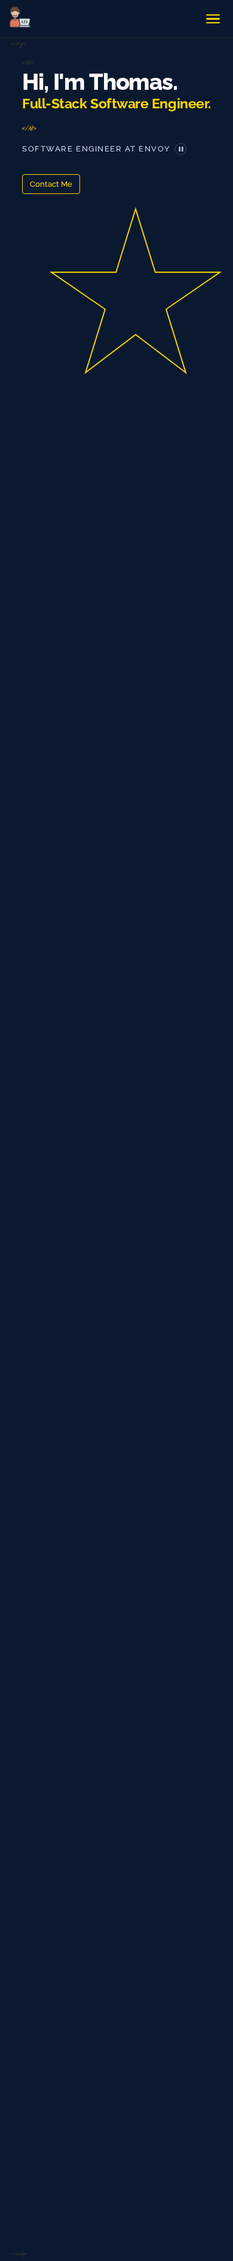
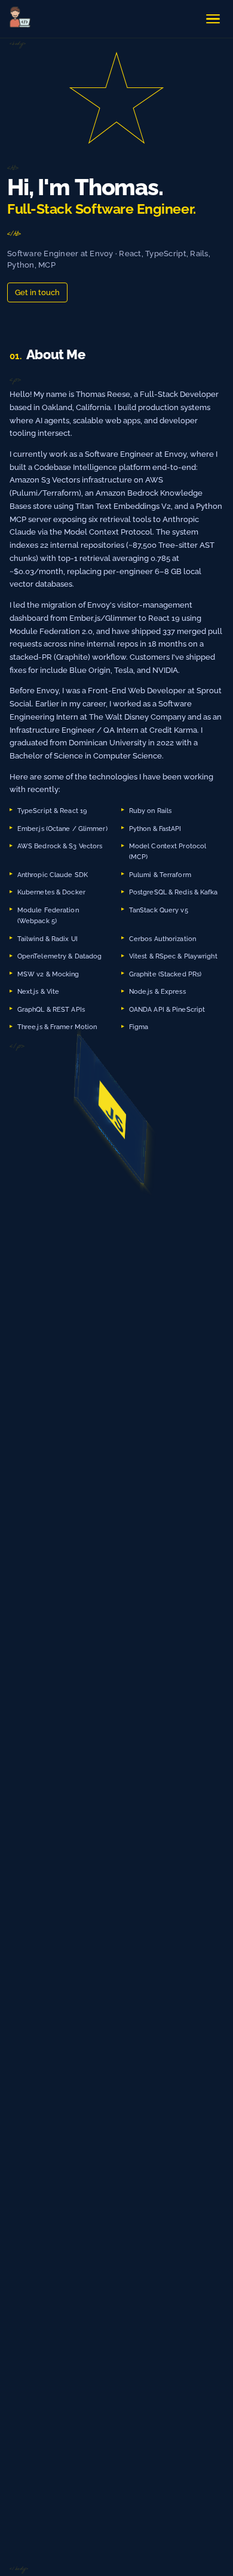
v14.1 — Mobile layout cleanup
- About: removed min-height: 56.6rem (was forcing 452px empty section on
  mobile); replaced with auto + flex-direction: column on tab-port
- About: max-width 120rem + centered (fixes huge whitespace on wide screens)
- Cube spinner: display: none on phone (the draggable 3D cube doesn't add
  signal on a 390px viewport; saved ~280px of vertical space)
- Cube: margin-bottom 28rem → 4rem (was the main source of huge empty
  gaps below the about section)
- Project sections: margin-bottom 15rem → 8rem (was creating 150px gaps
  between project rows; tab-land cap 7.5rem → 5rem)
- Project sections: height: 40rem → min-height: 36rem + gap: 3rem (lets
  cards reflow naturally instead of clipping content)

Changed region(s): [[0.0308, 0.0, 0.9231, 0.4374], [0.4, 0.4061, 0.5538, 0.4686], [0.8923, 0.0, 0.9231, 0.0312]]

diff --git a/thomas-portfolio-project/src/components/About/about.scss b/thomas-portfolio-project/src/components/About/about.scss
@@ -29,15 +29,22 @@
 }
 
 .about {
-	padding: 4rem 2rem;
+	padding: 6rem 2rem 4rem;
 	display: flex;
 	flex-direction: row;
-	align-items: center;
-	min-height: 56.6rem;
+	align-items: flex-start;
+	min-height: auto;
 	animation: fadeIn 1s forwards;
+	max-width: 120rem;
+	margin: 0 auto;
 
 	@include respond(tab-port) {
 		flex-direction: column;
+		gap: 2rem;
+	}
+
+	@include respond(phone) {
+		padding: 3rem 1.5rem 1rem;
 	}
 
 	&__left {
@@ -205,10 +212,15 @@
 }
 
 .stage-cube-cont {
-	margin-bottom: 28rem;
+	margin-bottom: 4rem;
 
 	@include respond(tab-port) {
-		margin-top: 6rem;
+		margin-top: 4rem;
+		margin-bottom: 2rem;
+	}
+
+	@include respond(phone) {
+		display: none;
 	}
 }
 

diff --git a/thomas-portfolio-project/src/components/Projects/projects.scss b/thomas-portfolio-project/src/components/Projects/projects.scss
@@ -77,10 +77,12 @@
 
 	&__section {
 		animation: fadeInUp 2s forwards;
-		height: 40rem;
+		min-height: 36rem;
 		display: flex;
 		position: relative;
-		margin-bottom: 15rem;
+		margin-bottom: 8rem;
+		gap: 3rem;
+		align-items: center;
 
 		// Hide desktop sections on smaller screens
 		@include respond(phone) {
@@ -92,7 +94,7 @@
 		}
 
 		@include respond(tab-land) {
-			margin-bottom: 7.5rem;
+			margin-bottom: 5rem;
 		}
 	}
 
